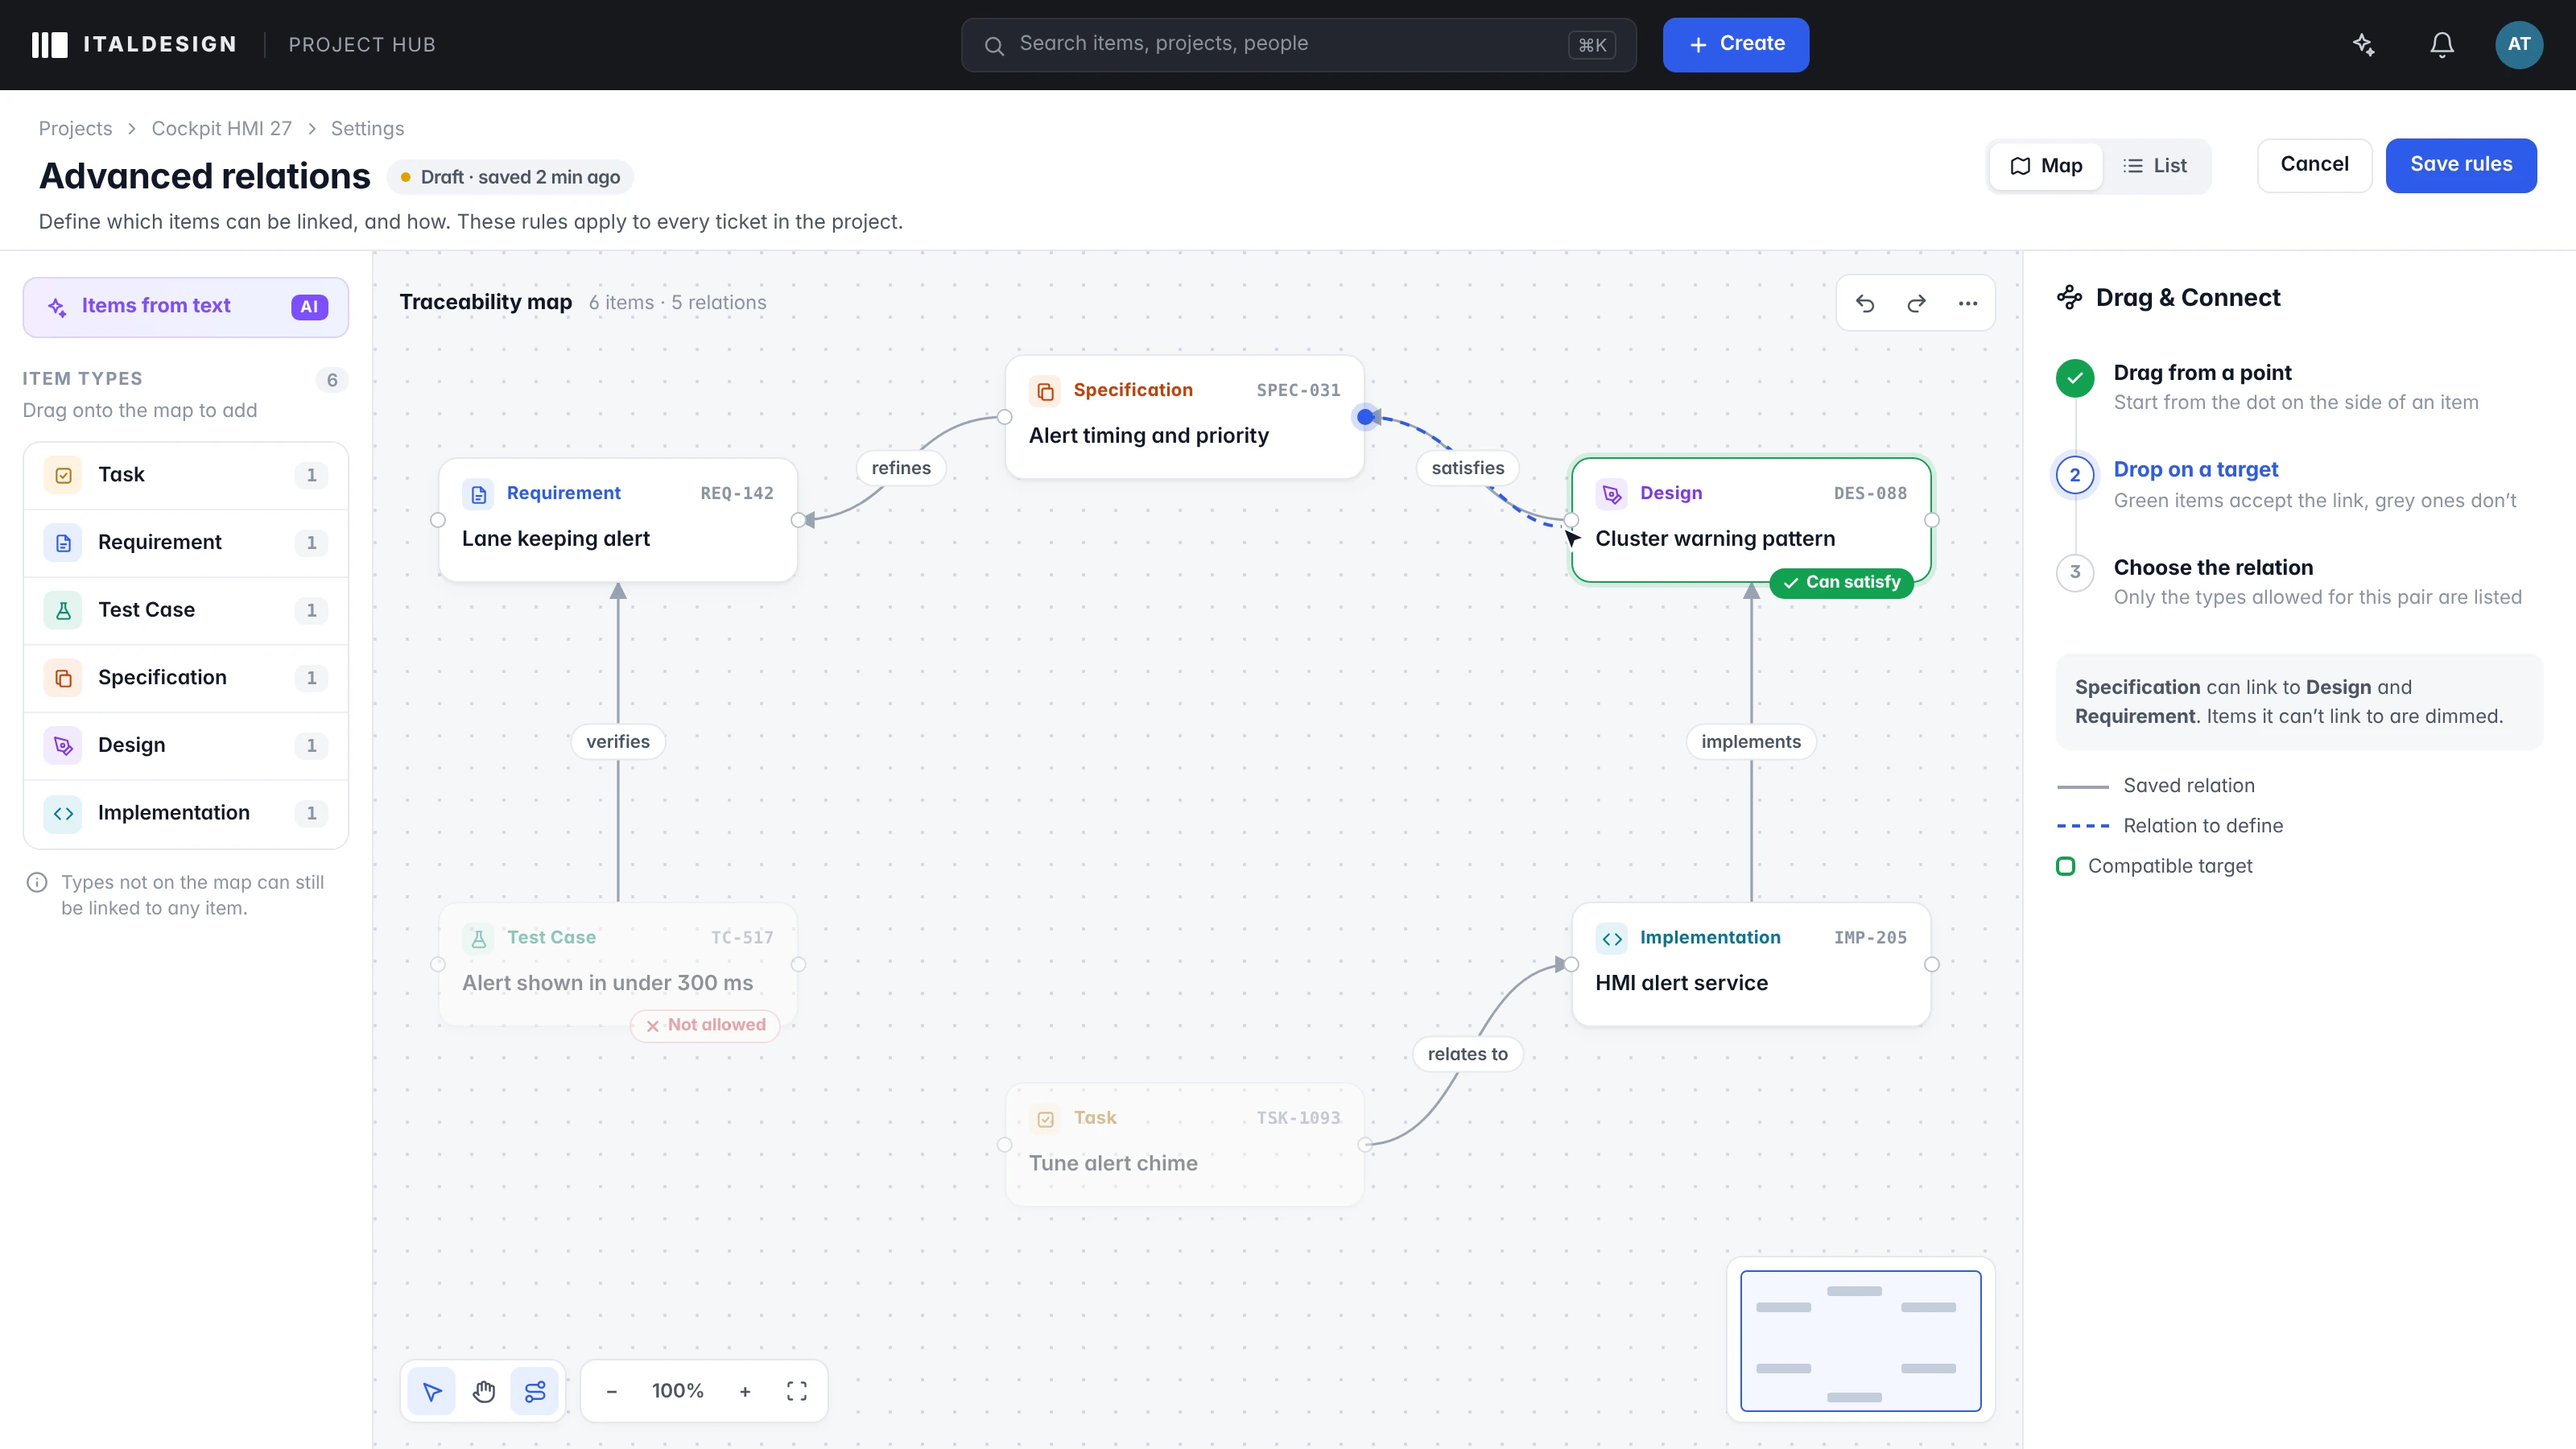
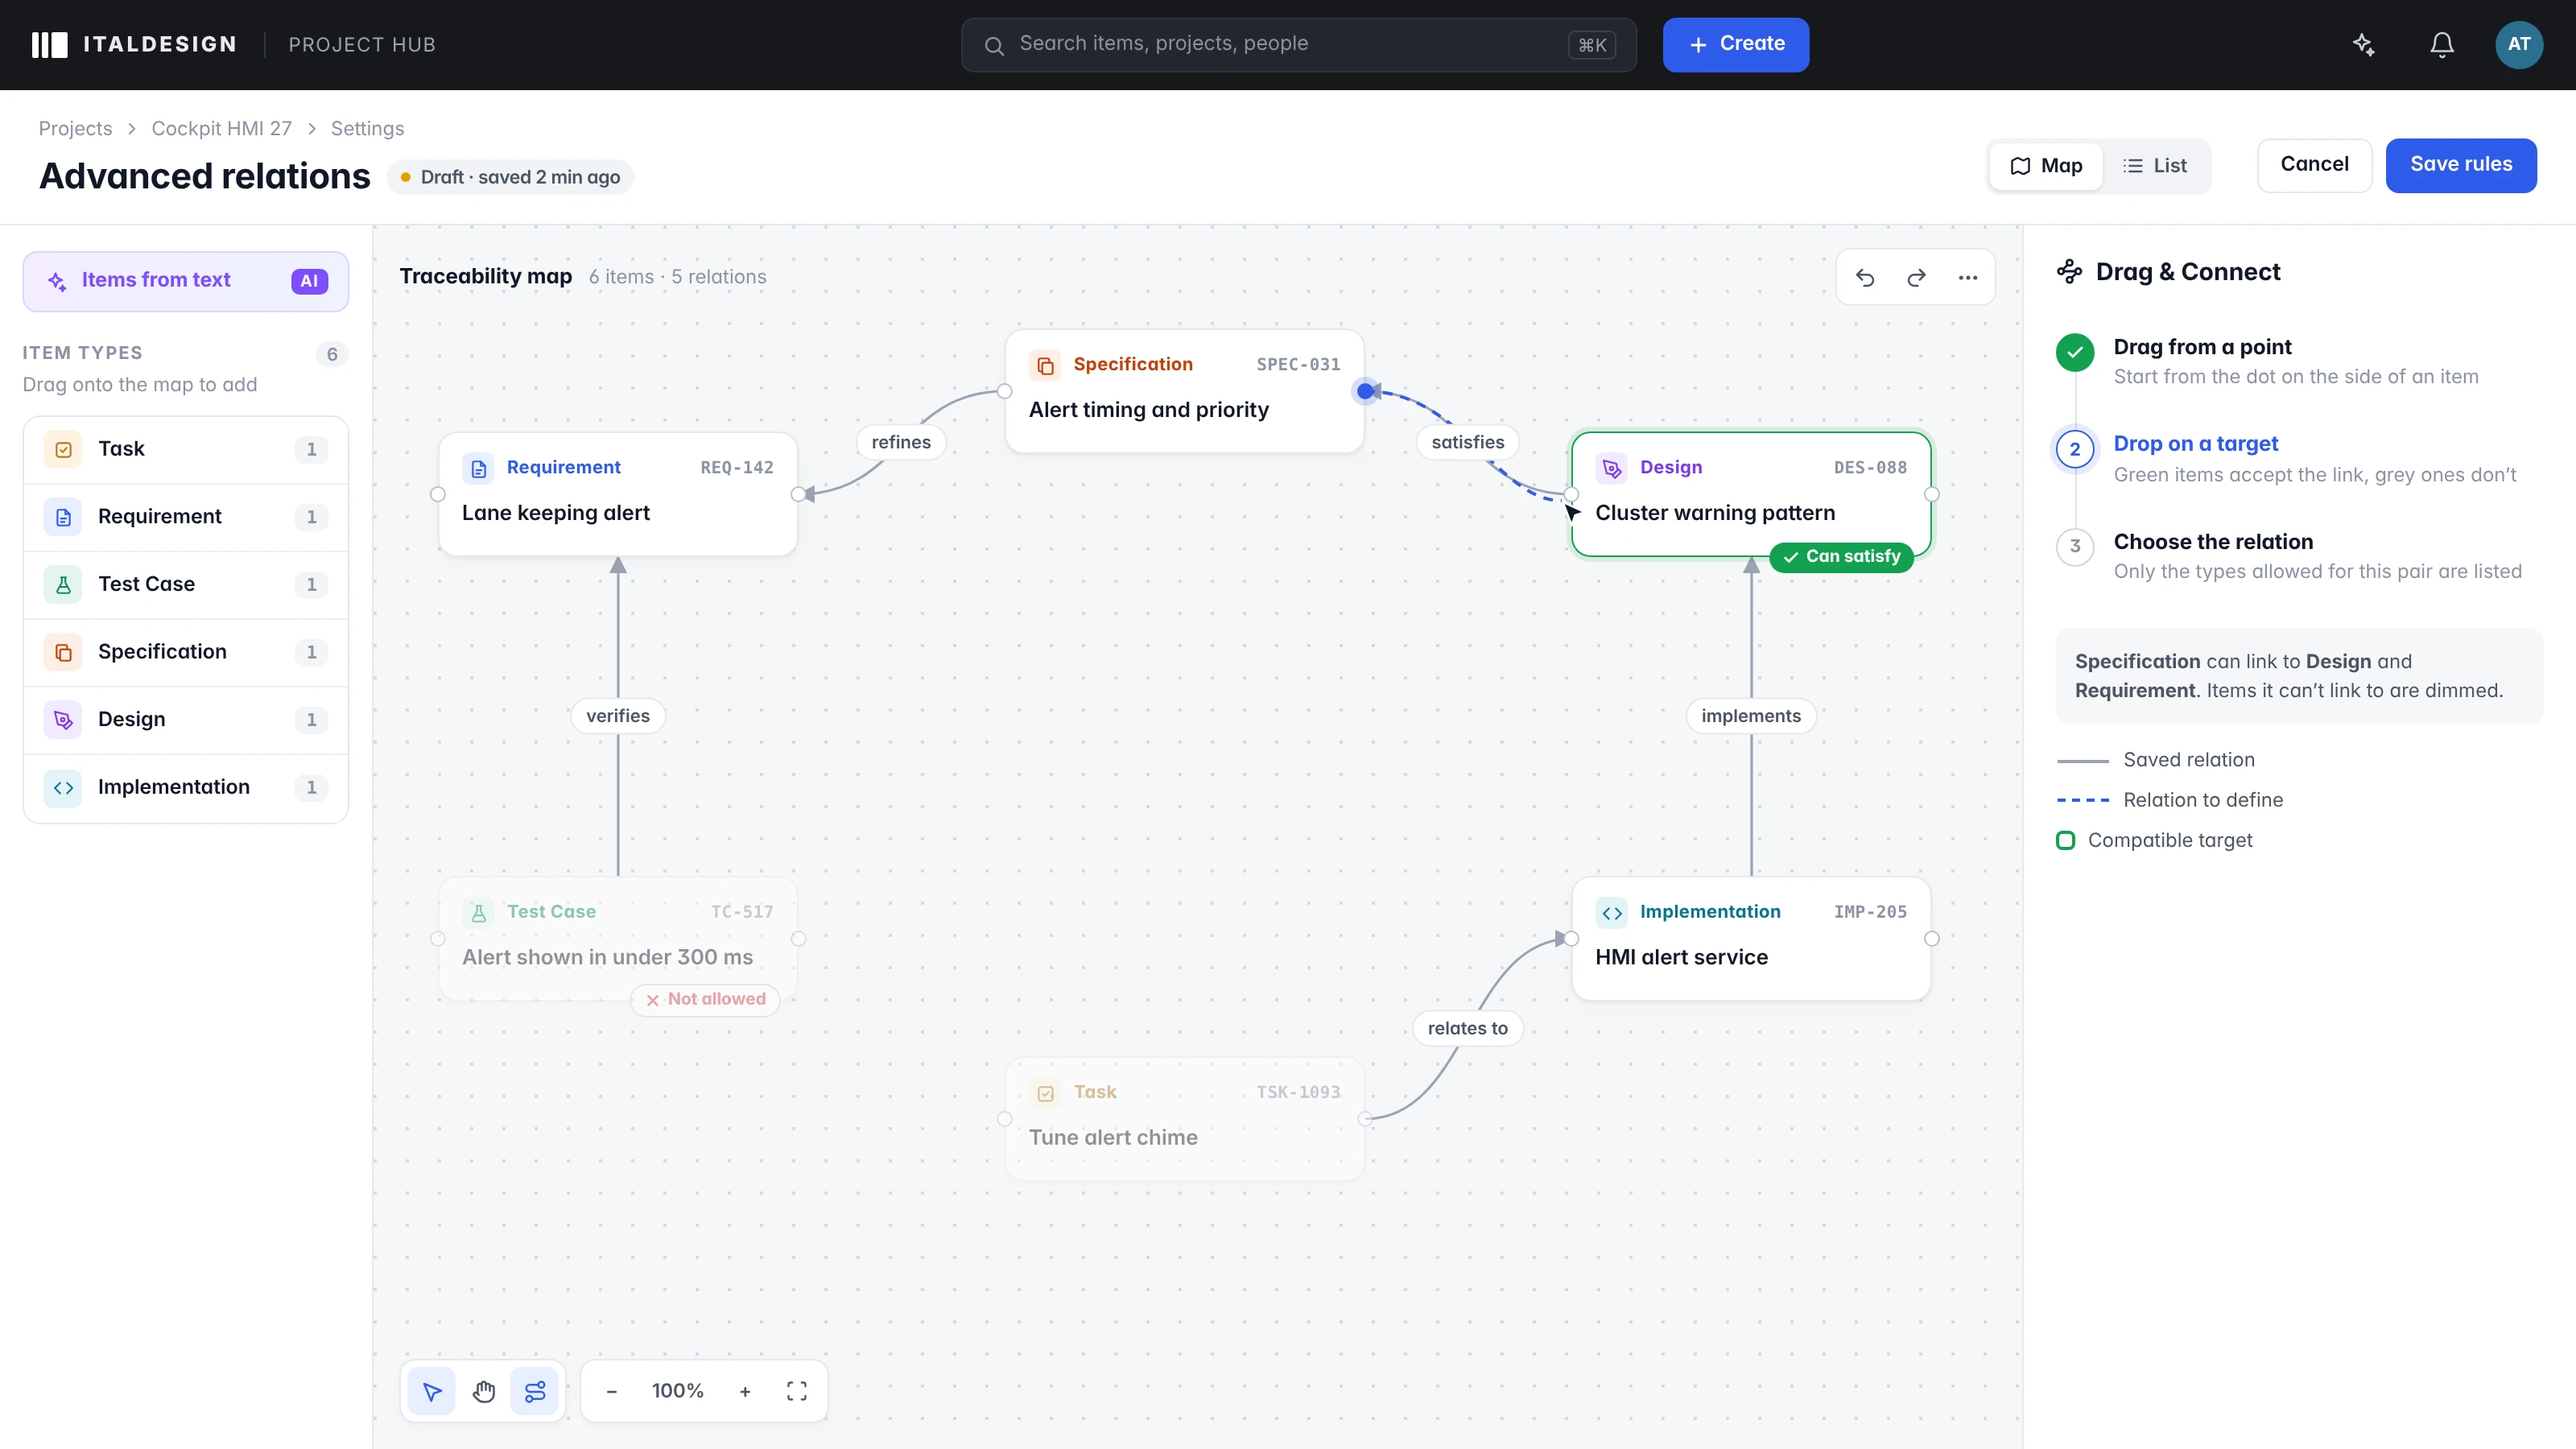
v9.4.2: simpler relations screens
Claude-Session: https://claude.ai/code/session_01V8nC7ptem1x7ZXbzsDoWyV

diff --git a/CHANGELOG.md b/CHANGELOG.md
@@ -2,6 +2,9 @@
 
 Versioning semantico: MAJOR.MINOR.PATCH (es. v1.1.0 = nuova funzione, v1.0.1 = correzione).
 
+## v9.4.2
+- Relations screens simplified: no page subtitle, no minimap, no footnote under Item types; AI assistant without tabs and confidence bars (just "94% match"), one "Accept both suggestions" button.
+
 ## v9.4.1
 - Relations screens: cleaner "Item types" panel in every screen (one grouped list instead of separate boxes, count badge instead of the repeated "on map" label, no drag handles, compact AI entry, quieter footnote).
 
